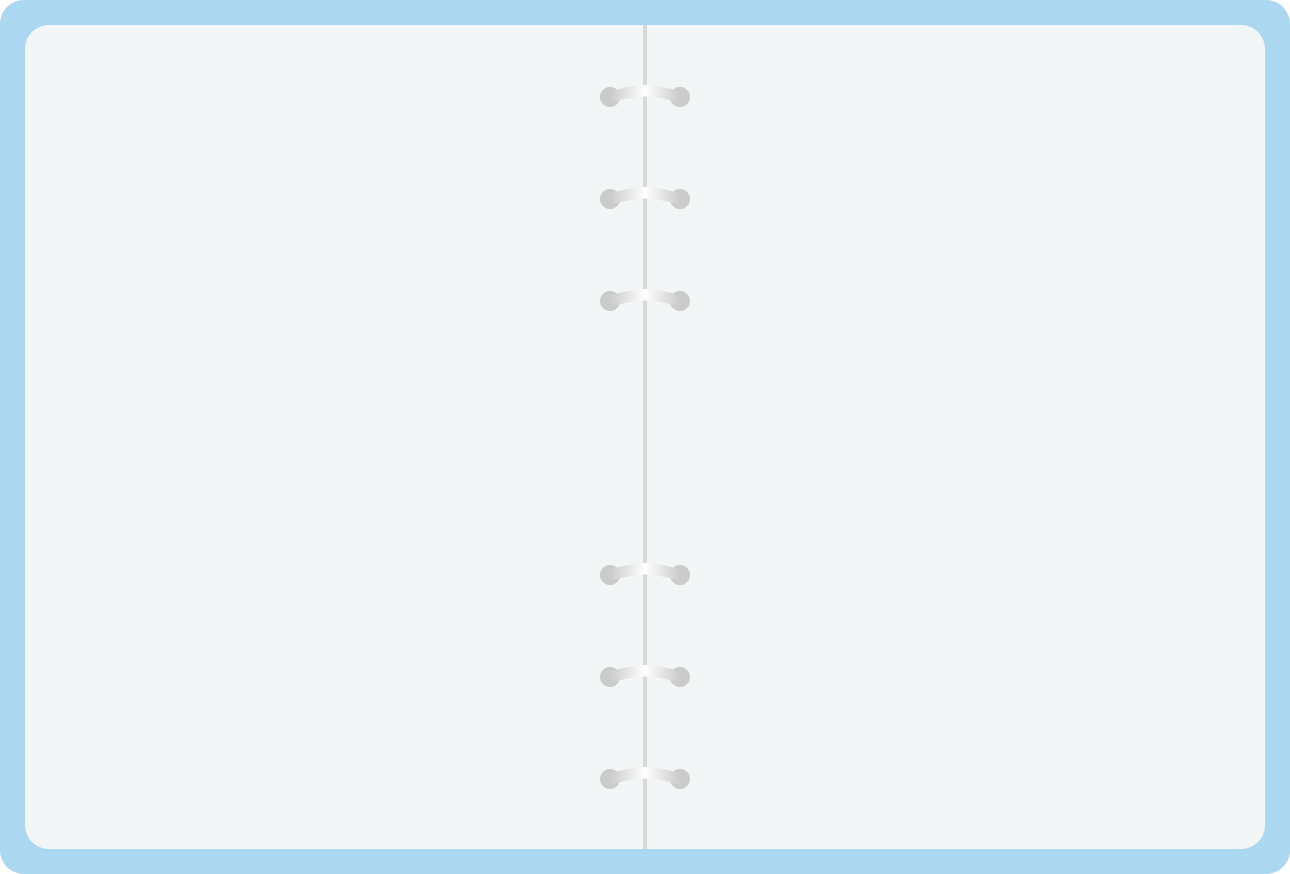
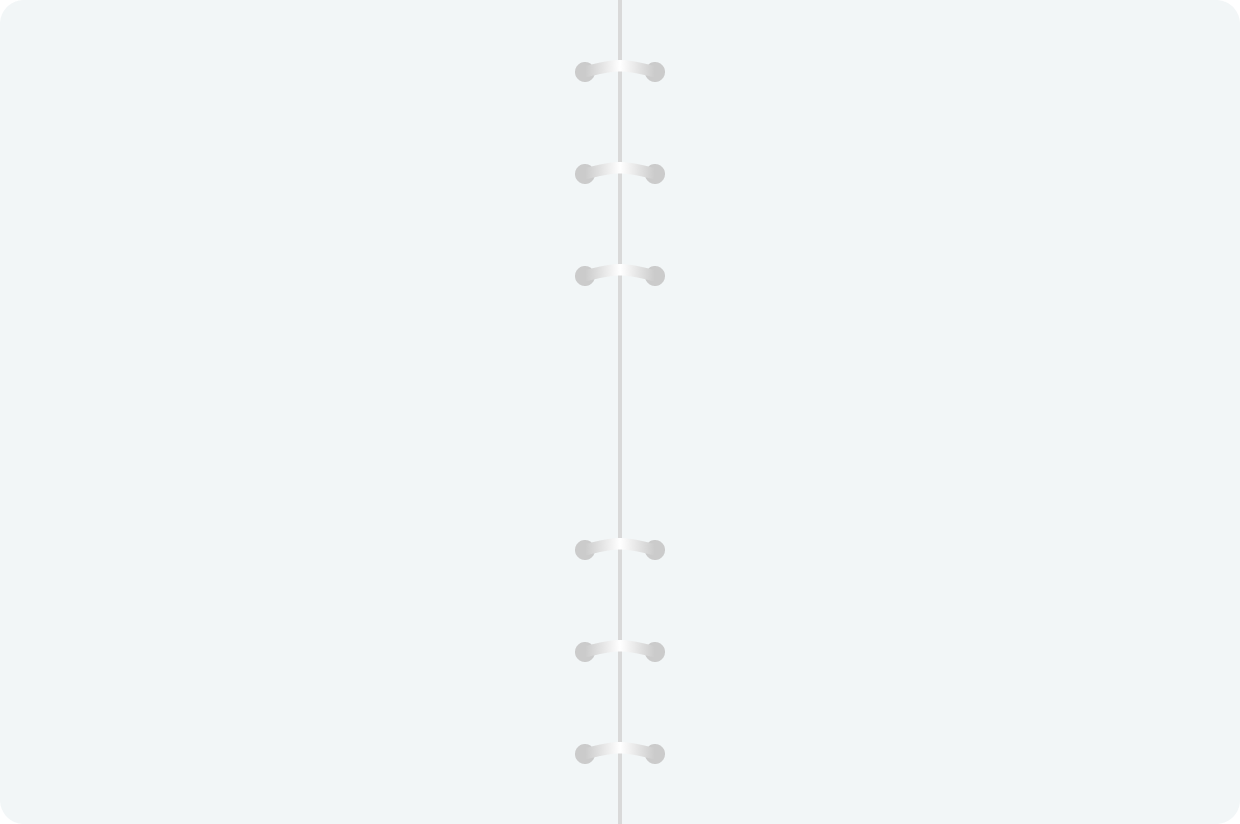
fix: 직캠 검색어 관련 수정

diff --git a/FEweek12_hw/src/components/PlaylistPanel.jsx b/FEweek12_hw/src/components/PlaylistPanel.jsx
@@ -1,5 +1,6 @@
 import styled from 'styled-components';
 import { usePlaylistStore } from '../store/playlistStore';
+import { useThemeStore } from '../store/themeStore';
 import VideoCard from './VideoCard';
 
 const Page = styled.section`
@@ -11,19 +12,57 @@ const Page = styled.section`
   gap: 16px;
 `;
 
+const Header = styled.div`
+  display: flex;
+  align-items: center;
+  justify-content: space-between;
+`;
+
 const Title = styled.h2`
   margin: 0;
   font-size: 17px;
   font-weight: 800;
 `;
 
+const ColorDot = styled.button`
+  width: 28px;
+  height: 28px;
+  border-radius: 50%;
+  border: 2px solid #fff;
+  box-shadow: 0 0 0 1px #cfd9e0;
+  background: ${(props) => props.$color};
+  cursor: pointer;
+  padding: 0;
+`;
+
+const HiddenColorInput = styled.input`
+  position: absolute;
+  width: 0;
+  height: 0;
+  opacity: 0;
+  pointer-events: none;
+`;
+
 export default function PlaylistPanel() {
   const items = usePlaylistStore((s) => s.items);
   const toggleItem = usePlaylistStore((s) => s.toggleItem);
+  const themeColor = useThemeStore((s) => s.themeColor);
+  const setThemeColor = useThemeStore((s) => s.setThemeColor);
 
   return (
     <Page>
-      <Title>나만의 직캠 PLAYLIST ♩♪♬</Title>
+      <Header>
+        <Title>나만의 직캠 PLAYLIST ♩♪♬</Title>
+
+        <label>
+          <ColorDot as="span" $color={themeColor} />
+          <HiddenColorInput
+            type="color"
+            value={themeColor}
+            onChange={(e) => setThemeColor(e.target.value)}
+          />
+        </label>
+      </Header>
 
       {items.length === 0 && <p>왼쪽에서 하트를 눌러 직캠을 담아보세요.</p>}
 

diff --git a/FEweek12_hw/src/api/youtube.js b/FEweek12_hw/src/api/youtube.js
@@ -4,8 +4,10 @@ import { decodeHtml } from '../utils/decodeHtml';
 const API_KEY = import.meta.env.VITE_YOUTUBE_API_KEY;
 const BASE_URL = 'https://www.googleapis.com/youtube/v3/search';
 
+const FANCAM_KEYWORD_REGEX = /직캠|fancam|focus\s*cam|페이스캠|포커스캠/i;
+
 function buildFancamQuery(rawQuery) {
-  const hasFancamKeyword = /직캠|fancam|focus/i.test(rawQuery);
+  const hasFancamKeyword = FANCAM_KEYWORD_REGEX.test(rawQuery);
   return hasFancamKeyword ? rawQuery : `${rawQuery} 직캠`;
 }
 
@@ -16,7 +18,7 @@ export async function searchVideos(query) {
     part: 'snippet',
     q: buildFancamQuery(query.trim()),
     type: 'video',
-    maxResults: '12',
+    maxResults: '25', // 필터링으로 걸러질 걸 감안해 넉넉히 요청
     key: API_KEY,
   });
 
@@ -29,10 +31,13 @@ export async function searchVideos(query) {
 
   const data = await res.json();
 
-  return (data.items || []).map((item) => ({
+  const normalized = (data.items || []).map((item) => ({
     id: item.id.videoId,
     title: decodeHtml(item.snippet.title),
     channelTitle: decodeHtml(item.snippet.channelTitle),
     thumbnail: item.snippet.thumbnails?.medium?.url,
   }));
+
+  // 제목에 직캠 관련 키워드가 없는 영상은 제외
+  return normalized.filter((video) => FANCAM_KEYWORD_REGEX.test(video.title));
 }
